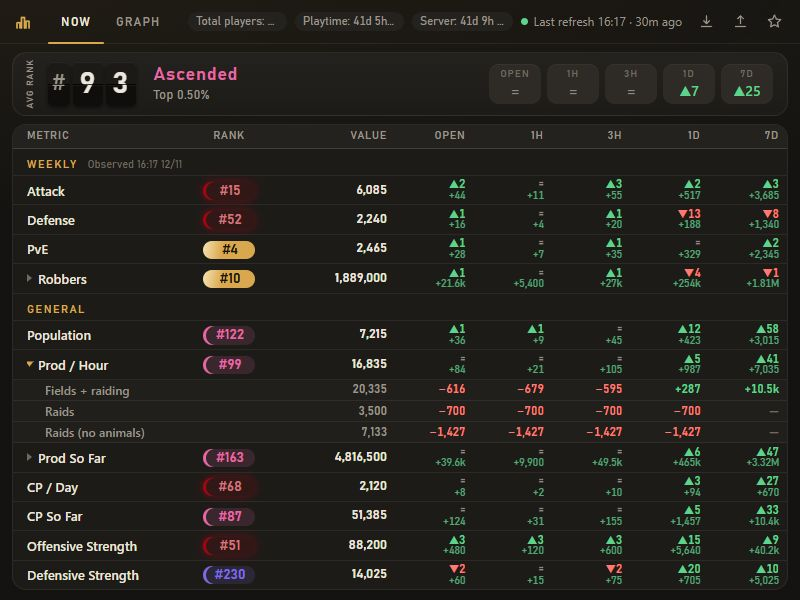
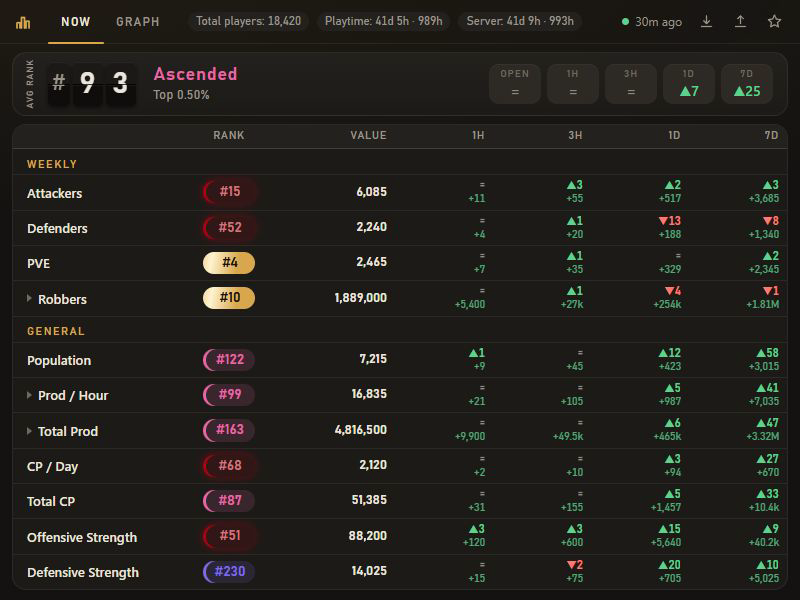
Remove Open column from Rank Tracker

diff --git a/projects/travian-extensions/extensions/TravianRankTracker/popup/now-view.js b/projects/travian-extensions/extensions/TravianRankTracker/popup/now-view.js
@@ -2,7 +2,7 @@
  * Travian Rank Tracker 5.0 — "Now" view.
  *
  * Renders the average-rank hero and the metrics table (weekly Top 10 rows and
- * general ranking rows) with change columns: since last open, 1h, 3h, 1d, 7d.
+ * general ranking rows) with change columns for 1h, 3h, 1d, and 7d.
  * `renderUI` stays a global function declaration: utils.js `processHtmlData`
  * calls it after an on-page scrape.
  */
@@ -21,8 +21,9 @@ const NOW_WEEKLY_NAMES = {
 	"Robbers of the week": "Robbers",
 };
 
-/** Column tags, in table order. */
+/** Average-rank summary labels. */
 const NOW_DELTA_TAGS = ["Open", "1h", "3h", "1d", "7d"];
+const NOW_TABLE_COLUMNS = 7;
 
 /** Average rank shown by the previous renderUI call in this popup session. */
 let lastHeroRank = null;
@@ -236,7 +237,7 @@ function clockDate(ts) {
 function groupRow(name, meta = "", title = "") {
 	const tr = h("tr", "group-row");
 	const th = h("th");
-	th.colSpan = 8;
+	th.colSpan = NOW_TABLE_COLUMNS;
 	th.scope = "colgroup";
 	th.append(h("span", "group-name", name), h("span", "group-meta", meta));
 	tr.append(th);
@@ -254,7 +255,7 @@ function groupRow(name, meta = "", title = "") {
  * @param {string} spec.main - Main value text.
  * @param {string} [spec.sub] - Secondary value text.
  * @param {string} [spec.valueTitle]
- * @param {Array<{rank: object, val: object|null}>} spec.cells - Five delta cells.
+ * @param {Array<{rank: object, val: object|null}>} spec.cells - Four delta cells.
  * @returns {HTMLTableRowElement}
  */
 function metricRow({ name, rank, totalPlayers, main, sub, valueTitle, cells }) {
@@ -357,7 +358,7 @@ function collapsible(parent, key, parts) {
 function stateRow(kind, message) {
 	const tr = h("tr", "state-row");
 	const td = h("td");
-	td.colSpan = 8;
+	td.colSpan = NOW_TABLE_COLUMNS;
 	const p = h("p", "state-msg", message);
 	p.dataset.kind = kind;
 	td.append(p);
@@ -454,12 +455,11 @@ function renderUI(data, history) {
 		now - 24 * 60 * 60 * 1000,
 		now - 7 * 24 * 60 * 60 * 1000,
 	];
-	const baseline = popupState.baselineSnapshot;
-	const generalRefs = [baseline, ...offsets.map((t) => getHistoryPoint(history, t))];
+	const generalRefs = offsets.map((t) => getHistoryPoint(history, t));
 	const weeklyHistory = history.filter((point) => point.top10?.length);
-	const weeklyRefs = [baseline, ...offsets.map((t) => getHistoryPoint(weeklyHistory, t))];
+	const weeklyRefs = offsets.map((t) => getHistoryPoint(weeklyHistory, t));
 
-	/** Five cells of rank/value deltas for one metric. */
+	/** Four cells of rank/value deltas for one metric. */
 	const deltaCells = (currRank, currVal, readRank, readVal, isTop10) =>
 		(isTop10 ? weeklyRefs : generalRefs).map((snapshot) => {
 			const oldRank = readRank(snapshot);
@@ -485,7 +485,7 @@ function renderUI(data, history) {
 			return { rank, val: describeDelta(diff, false) };
 		});
 
-	renderHero(data, generalRefs);
+	renderHero(data, [popupState.baselineSnapshot, ...generalRefs]);
 	renderWeekly(data, deltaCells);
 	renderGeneral(data, deltaCells, history);
 	fitMetricsTable();
@@ -587,7 +587,7 @@ function renderNowState(kind, message = "") {
 	if (kind === "loading") {
 		const skeletons = (count) => Array.from({ length: count }, () => {
 			const tr = h("tr", "row is-skeleton");
-			for (let i = 0; i < 8; i++) {
+			for (let i = 0; i < NOW_TABLE_COLUMNS; i++) {
 				const td = h("td");
 				td.append(h("span", "skeleton"));
 				tr.append(td);

diff --git a/projects/travian-extensions/extensions/TravianRankTracker/popup.html b/projects/travian-extensions/extensions/TravianRankTracker/popup.html
@@ -64,7 +64,6 @@
 								<th scope="col" class="col-metric"></th>
 								<th scope="col" class="col-rank">Rank</th>
 								<th scope="col" class="col-value">Value</th>
-								<th scope="col" class="col-delta" title="Since last open">Open</th>
 								<th scope="col" class="col-delta">1h</th>
 								<th scope="col" class="col-delta">3h</th>
 								<th scope="col" class="col-delta">1d</th>

diff --git a/projects/travian-extensions/docs/USAGE.md b/projects/travian-extensions/docs/USAGE.md
@@ -98,7 +98,7 @@ The farm-list screenshot uses a sample table with the extension's selection high
 
 <a href="images/rank-tracker.png"><img src="images/rank-tracker.png" alt="Rank Tracker current statistics" width="520" /></a>
 
-**Features:** weekly Top 10 and general rankings; population, production, CP, attack/defense, raid/PvE statistics; average rank (all General ranks plus weekly PvE and Robbers) with percentile tier; changes since last open and over 1h, 3h, 1d and 7d; history graphs with raw data/daily peaks, absolute values/per-hour rates, metric sections, saved groups, zoom, quick ranges (3h–1w), and point comparisons; header chips for total players, your playtime and time since server start; multiple servers; JSON export/import.
+**Features:** weekly Top 10 and general rankings; population, production, CP, attack/defense, raid/PvE statistics; average rank (all General ranks plus weekly PvE and Robbers) with percentile tier; table comparisons over 1h, 3h, 1d and 7d with a since-last-open comparison in the average-rank summary; history graphs with raw data/daily peaks, absolute values/per-hour rates, metric sections, saved groups, zoom, quick ranges (3h–1w), and point comparisons; header chips for total players, your playtime and time since server start; multiple servers; JSON export/import.
 
 **Usage:**
 

diff --git a/projects/travian-extensions/README.md b/projects/travian-extensions/README.md
@@ -13,7 +13,7 @@ Eight standalone browser extensions for Travian: forecasting, statistics history
 | <a id="oasis-finder"></a>[Oasis Finder](extensions/OasisCalc/) | Oasis scoring and farm-list sorting | 70.4 |
 | <a id="travalarm"></a>[TravAlarm](extensions/travAlarm/) | Game timers, custom reminders and notifications | 3.47 |
 | <a id="travian-qol"></a>[Travian QoL](extensions/TravianQoL/) | Farm-list selection, reports and interface utilities | 1.3.1 |
-| <a id="rank-tracker"></a>[Rank Tracker](extensions/TravianRankTracker/) | Rankings, statistics history and comparison graphs | 5.0.34 |
+| <a id="rank-tracker"></a>[Rank Tracker](extensions/TravianRankTracker/) | Rankings, statistics history and comparison graphs | 5.1.1 |
 | <a id="next-settlement-calc"></a>[Next Settlement Calc](extensions/NextSettlementCalc/) | Culture-point forecasts and celebration planning | 2.6.5 |
 | <a id="npc-automerchant"></a>[NPC AutoMerchant](extensions/automerchant/) | Troop resource calculations and hero-transfer assistance | 3.2.1 |
 | <a id="night-mode"></a>[Night Mode](extensions/travian_night_mode/) | Persistent dark theme and button colours | 2.6.1 |

diff --git a/projects/travian-extensions/extensions/TravianRankTracker/README.md b/projects/travian-extensions/extensions/TravianRankTracker/README.md
@@ -2,7 +2,7 @@
 
 Records player statistics and displays rankings, historical changes and comparison graphs.
 
-**Version 5.0.37 · JavaScript · Manifest V3**
+**Version 5.1.1 · JavaScript · Manifest V3**
 
 [Usage guide](../../docs/USAGE.md#rank-tracker) · [Installation](../../README.md#install-in-brave-chrome-or-edge) · [All extensions](../../README.md)
 

diff --git a/projects/travian-extensions/extensions/TravianRankTracker/CHANGELOG.md b/projects/travian-extensions/extensions/TravianRankTracker/CHANGELOG.md
@@ -1,5 +1,9 @@
 # Rank Tracker changelog
 
+## Rank Tracker 5.1.1 — 2026-11-17
+
+- Removed the Open column from the Now table.
+
 ## Rank Tracker 5.0.39 — 2026-11-17
 
 - Graph: "Reset zoom" moved into the chart so zooming no longer wraps the toolbar and adds scrollbars to the metric list.

diff --git a/projects/travian-extensions/CHANGELOG.md b/projects/travian-extensions/CHANGELOG.md
@@ -1,5 +1,9 @@
 # Changelog
 
+## Rank Tracker 5.1.1 — 2026-11-17
+
+- Removed the Open column from the Now table.
+
 ## NPC AutoMerchant 3.2.1 — 2026-11-17
 
 - Restored the required amounts in parentheses after the green projected stock in transfer dialogs opened from building costs.
